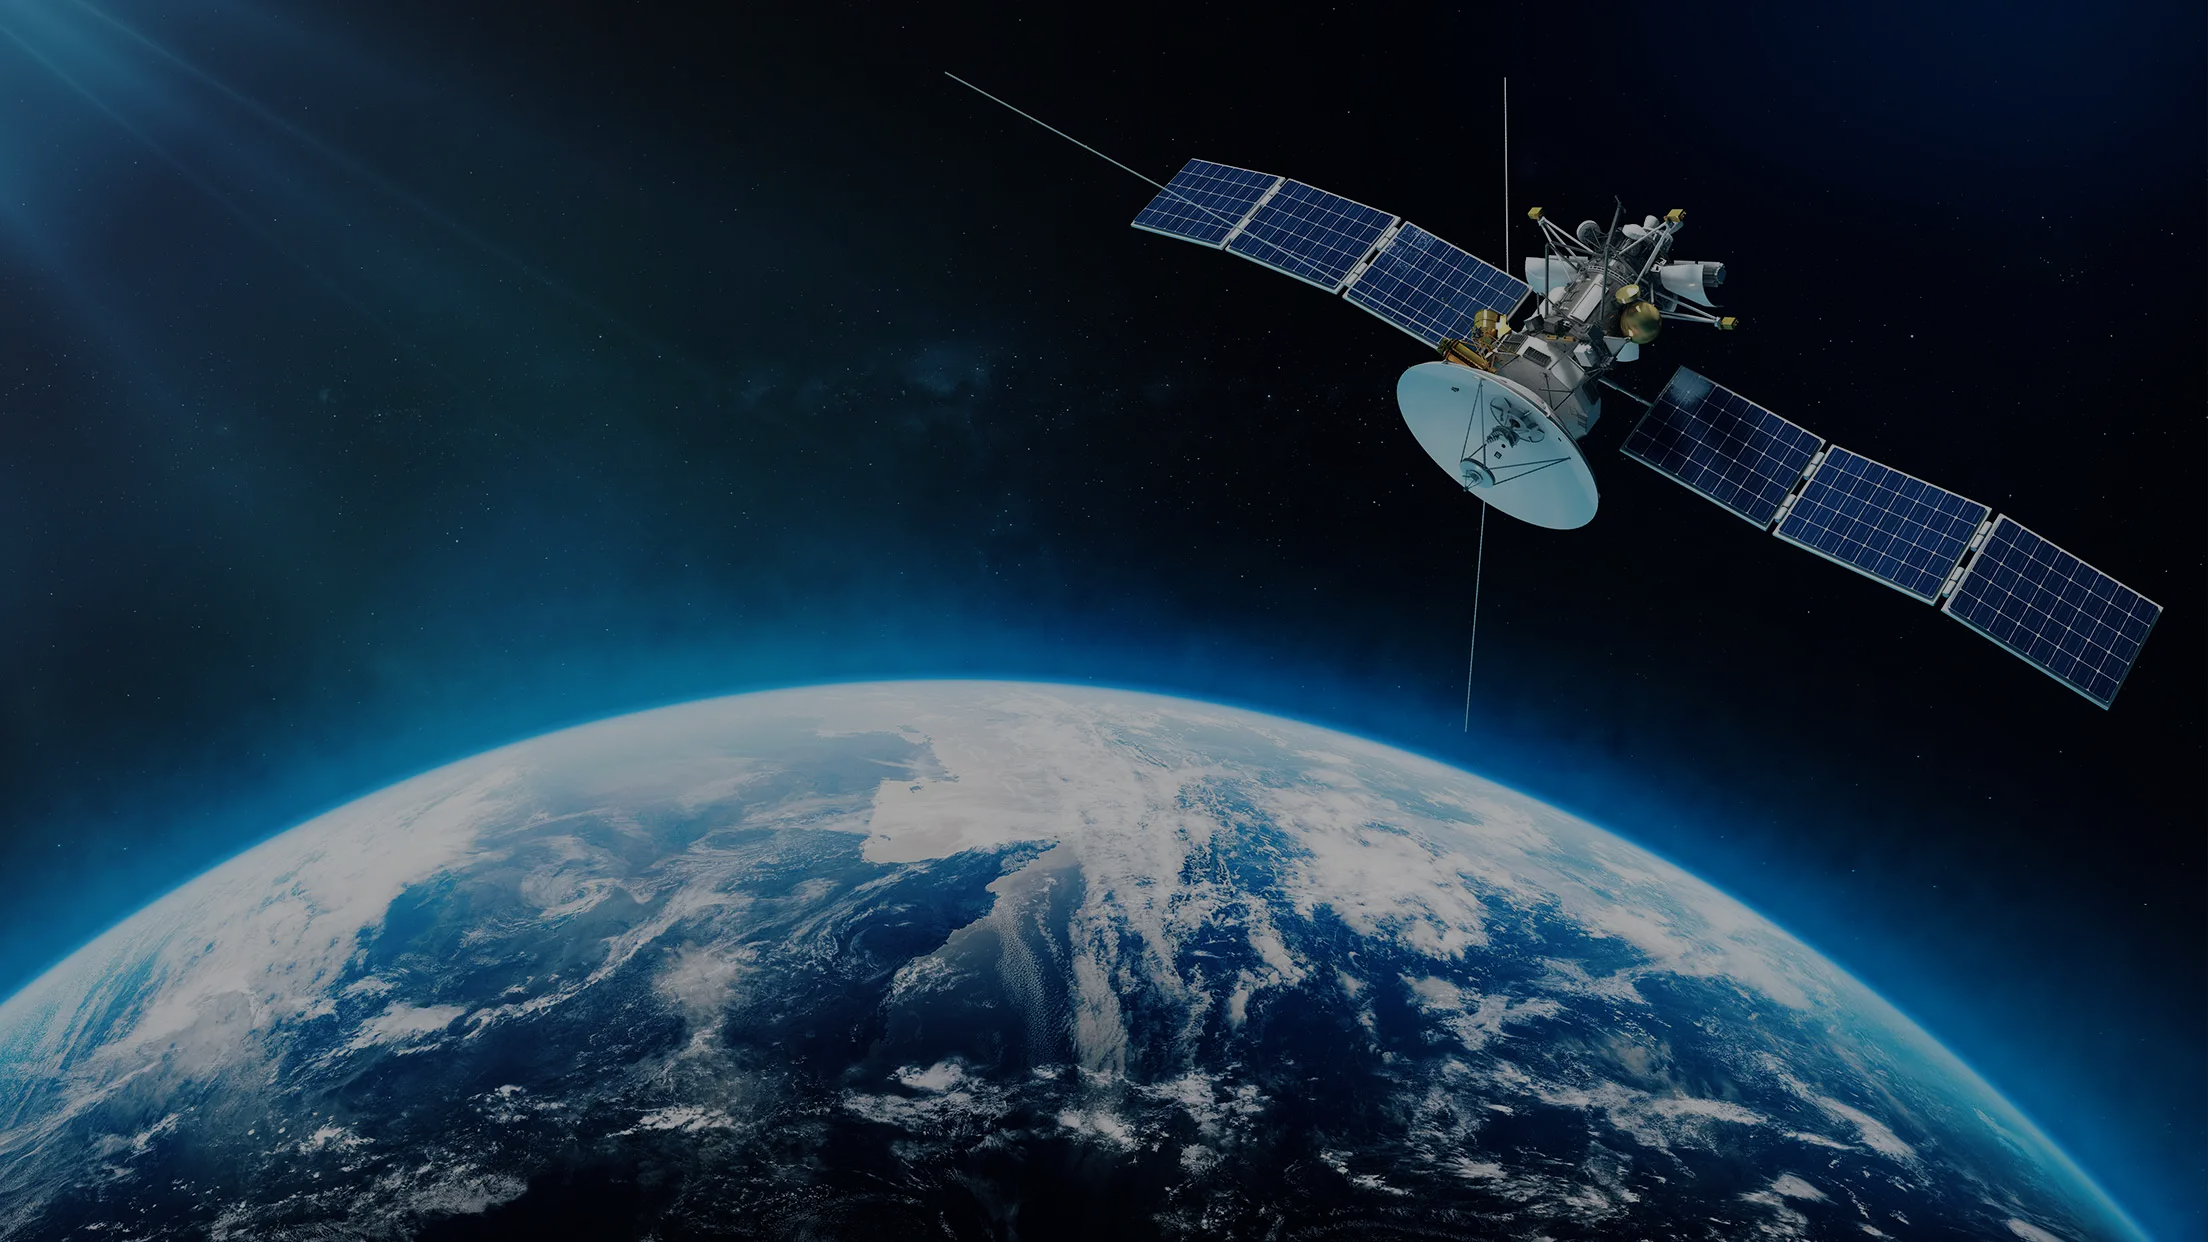
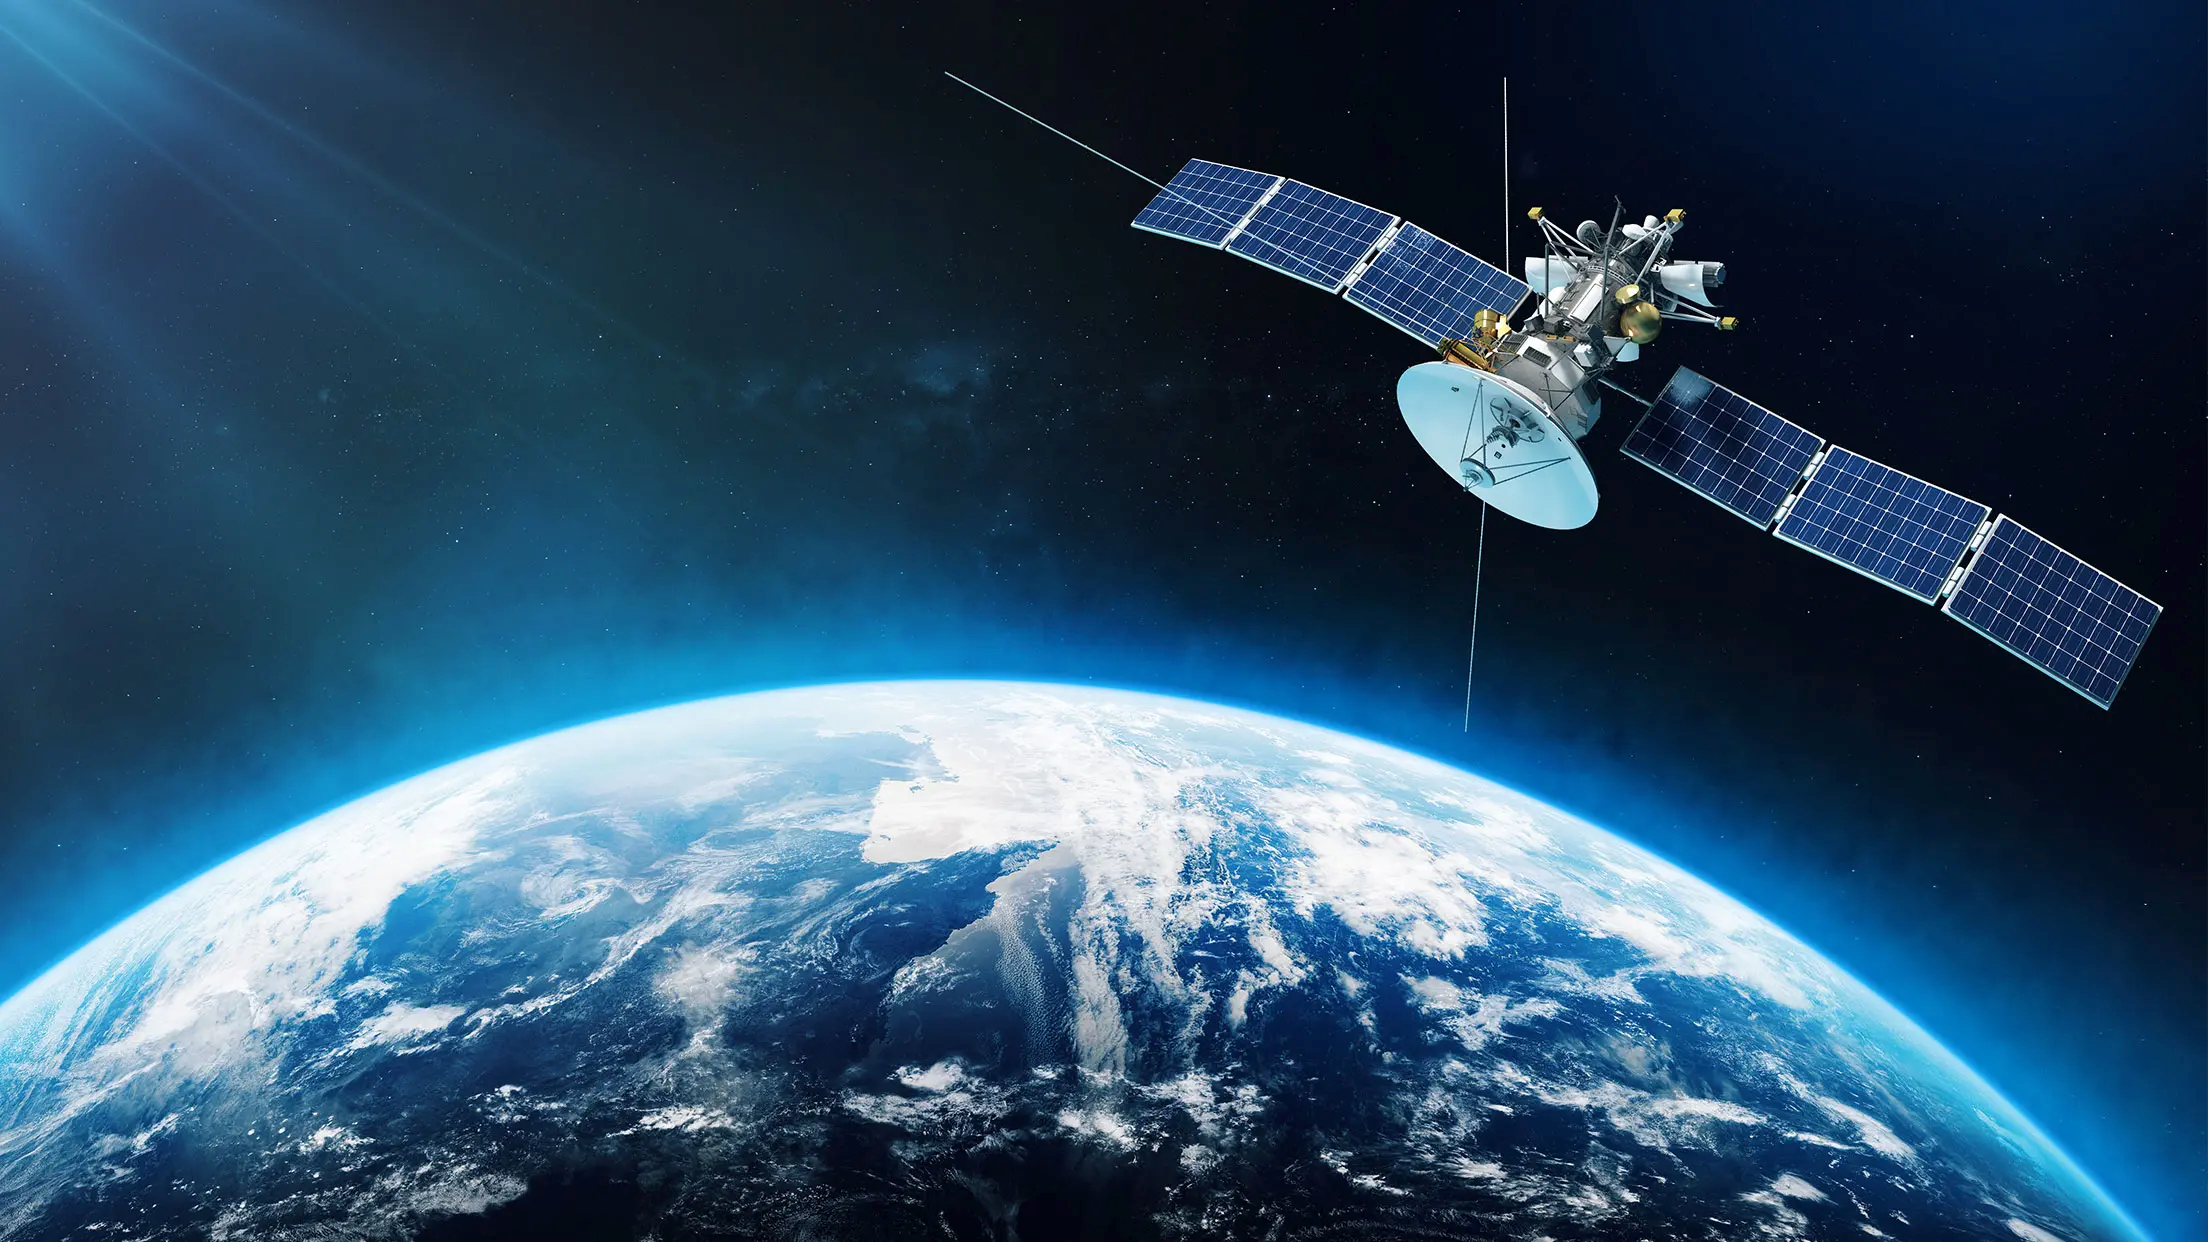
redo image system for posts

diff --git a/_posts/cs-mva/2024-04-15-mva-gnn-twitch-benchmark.md b/_posts/cs-mva/2024-04-15-mva-gnn-twitch-benchmark.md
@@ -4,7 +4,8 @@ title:      "Graph Neural Network Benchmark on Twitch Dataset"
 subtitle:   "Benchmarking Different GNN Architectures on Multiple Classification and Regression Tasks"
 date:       2024-04-15 12:00:00
 author:     "Clement Wang"
-header-img: "/img_compressed/posts/cs-mva/mlns_dark.png"
+header-img: "/img_compressed/posts/cs-mva/mlns.png"
+header-mask: 0.5
 catalog: true
 published: true
 mathjax: true
@@ -29,7 +30,7 @@ We focused on four predictive tasks:
 
 To this end, we compared four widely used GNN architectures: **Graph Convolutional Network (GCN)**, **Graph Isomorphism Network (GIN)**, **Graph Attention Network (GAT)**, and **GraphSAGE**.
 
-![Learning curves](https://raw.githubusercontent.com/clementw168/mlns_twitch_project/main/assets/learning_curves.png)
+![Learning curves](/img_compressed/posts/cs-mva/mlns.png)
 
 
 ## Dataset

diff --git a/_posts/cs-mva/2024-04-01-mva-prey-predator-simulation.md b/_posts/cs-mva/2024-04-01-mva-prey-predator-simulation.md
@@ -5,6 +5,7 @@ subtitle:   "Multi-Agent Reinforcement Learning for Cooperative Behavior"
 date:       2024-04-01 12:00:00
 author:     "Clement Wang"
 header-img: "/img/posts/cs-mva/maddpg.gif"
+header-mask: 0.5
 catalog: true
 published: true
 tags:
@@ -22,7 +23,7 @@ This project simulates a prey-predator ecosystem using **multi-agent reinforceme
 
 The environment is a 2D world where multiple species interact dynamically: predators hunt, preys evade, and some species can even be both. This setup reflects the complexity of real ecosystems, where survival depends on both competition and cooperation.  
 
-![Demo gif](https://raw.githubusercontent.com/clementw168/prey-predator-rl/main/assets/demo.gif)  
+![Demo gif](/img/posts/cs-mva/maddpg.gif)  
 ![Poster](/img_compressed/posts/cs-mva/maddpg_poster.jpg)  
 
 

diff --git a/_posts/student-projects-cs/2022-01-15-tabular-competition.md b/_posts/student-projects-cs/2022-01-15-tabular-competition.md
@@ -4,7 +4,8 @@ title:      "Tabular Data Competition: Building Classification from Geodata"
 subtitle:   "Ranked 2nd over 72 in Course Competition on Tabular Data"
 date:       2022-01-15 12:00:00
 author:     "Clement Wang"
-header-img: "/img_compressed/posts/student-projects/tabular-competition/full_data_dark.jpg"
+header-img: "/img_compressed/posts/student-projects/tabular-competition/full_data.jpg"
+header-mask: 0.5
 catalog: true
 published: true
 tags:

diff --git a/_posts/cs-mva/2024-03-15-mva-bayesian-ml-swa.md b/_posts/cs-mva/2024-03-15-mva-bayesian-ml-swa.md
@@ -4,7 +4,8 @@ title:      "Averaging Weights Leads to Wider Optima and Better Generalization"
 subtitle:   "Implementation of Stochastic Weight Averaging (SWA) for Better Generalization"
 date:       2024-03-15 12:00:00
 author:     "Clement Wang"
-header-img: "/img_compressed/posts/cs-mva/swa_loss_landscape_dark.png"
+header-img: "/img_compressed/posts/cs-mva/swa_loss_landscape.png"
+header-mask: 0.5
 catalog: true
 published: true
 tags:

diff --git a/_posts/cs-mva/2024-01-15-abba-symbolic-time-series.md b/_posts/cs-mva/2024-01-15-abba-symbolic-time-series.md
@@ -4,7 +4,8 @@ title:      "Implementation of ABBA Symbolic Representation of Time Series"
 subtitle:   "Adaptive Brownian Bridge-based Symbolic Aggregation for Time Series Forecasting"
 date:       2024-01-15 12:00:00
 author:     "Clement Wang"
-header-img: "/img_compressed/posts/cs-mva/sunspot_results_dark.png"
+header-img: "/img_compressed/posts/cs-mva/sunspot_results.png"
+header-mask: 0.5
 catalog: true
 published: true
 tags:

diff --git a/_posts/gap_year/2023-01-15-polygon-diagnostic-assistance.md b/_posts/gap_year/2023-01-15-polygon-diagnostic-assistance.md
@@ -4,7 +4,8 @@ title:      "Diagnostic Assistance with AI at Polygon Technologies"
 subtitle:   "Video Analysis for Learning Differences Diagnosis using Time Series Classification"
 date:       2023-01-15 12:00:00
 author:     "Clement Wang"
-header-img: "/img_compressed/posts/gap_year/polygon_dark.png"
+header-img: "/img_compressed/posts/gap_year/polygon.png"
+header-mask: 0.5
 catalog: true
 published: true
 tags:

diff --git a/_posts/gap_year/2023-08-15-etandex-business-opportunities.md b/_posts/gap_year/2023-08-15-etandex-business-opportunities.md
@@ -4,7 +4,8 @@ title:      "Analyzing Business Opportunities at Etandex"
 subtitle:   "Freelance Business Intelligence Analysis with Explainable AI for Commercial Opportunity Prediction"
 date:       2023-08-15 12:00:00
 author:     "Clement Wang"
-header-img: "/img_compressed/posts/gap_year/etandex_dark.png"
+header-img: "/img/posts/gap_year/etandex.png"
+header-mask: 0.4
 catalog: true
 published: true
 tags:

diff --git a/_posts/gap_year/2022-07-15-paris-digital-lab-consulting.md b/_posts/gap_year/2022-07-15-paris-digital-lab-consulting.md
@@ -4,7 +4,8 @@ title:      "Machine Learning Consultant at Paris Digital Lab"
 subtitle:   "Various Computer Vision Projects for Companies - 3 Projects of 7 Weeks Each"
 date:       2022-07-15 12:00:00
 author:     "Clement Wang"
-header-img: "/img_compressed/banners/paris_digital_lab_dark.jpg"
+header-img: "/img_compressed/banners/paris_digital_lab.jpg"
+header-mask: 0.3
 catalog: true
 published: true
 tags:

diff --git a/_posts/gap_year/2023-07-15-photogen-ai-startup.md b/_posts/gap_year/2023-07-15-photogen-ai-startup.md
@@ -4,7 +4,8 @@ title:      "Photogen AI - Founding a Startup on Diffusion Models"
 subtitle:   "From Research to Production: AI-Generated Images for Customers"
 date:       2023-07-15 12:00:00
 author:     "Clement Wang"
-header-img: "/img_compressed/posts/gap_year/photogen_dark.png"
+header-img: "/img_compressed/posts/gap_year/photogen.png"
+header-mask: 0.4
 catalog: true
 published: true
 tags:

diff --git a/_posts/cs-mva/2023-12-15-mixture-density-networks.md b/_posts/cs-mva/2023-12-15-mixture-density-networks.md
@@ -4,7 +4,8 @@ title:      "Mixture Density Networks Implementation"
 subtitle:   "Modeling Multi-Modal Regression with Probabilistic Neural Networks"
 date:       2023-12-15 12:00:00
 author:     "Clement Wang"
-header-img: "/img_compressed/posts/cs-mva/mdn_poster_dark.jpg"
+header-img: "/img_compressed/posts/cs-mva/mdn_poster.jpg"
+header-mask: 0.5
 catalog: true
 published: true
 mathjax: true

diff --git a/_posts/automatants/2021-12-15-genetic-algorithm-maze.md b/_posts/automatants/2021-12-15-genetic-algorithm-maze.md
@@ -4,7 +4,8 @@ title:      "Genetic Algorithm for Maze Solving"
 subtitle:   "Solving Maze Game with Genetic Algorithm - Just for Fun!"
 date:       2021-12-15 12:00:00
 author:     "Clement Wang"
-header-img: "/img_compressed/posts/automatants/genetic-maze-bg.png"
+header-img: "/img_compressed/posts/automatants/genetic-maze.png"
+header-mask: 0.4
 catalog: true
 published: true
 tags:

diff --git a/_posts/cs-mva/2024-02-15-mva-implicit-acceleration-overparameterization.md b/_posts/cs-mva/2024-02-15-mva-implicit-acceleration-overparameterization.md
@@ -4,7 +4,8 @@ title:      "Implicit Acceleration by Overparameterization"
 subtitle:   "Reimplementing Experiments from the Paper"
 date:       2024-02-15 12:00:00
 author:     "Clement Wang"
-header-img: "/img_compressed/posts/cs-mva/linear_equivalence_dark.png"
+header-img: "/img_compressed/posts/cs-mva/linear_equivalence.png"
+header-mask: 0.5
 catalog: true
 published: true
 tags:
